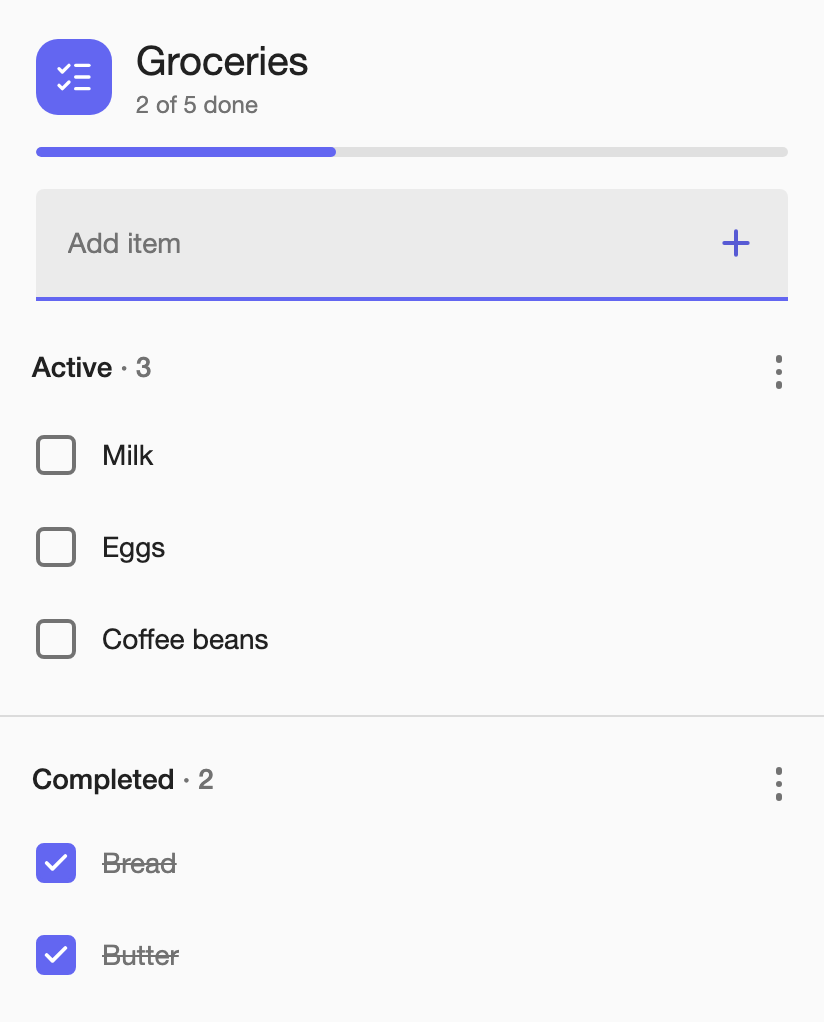
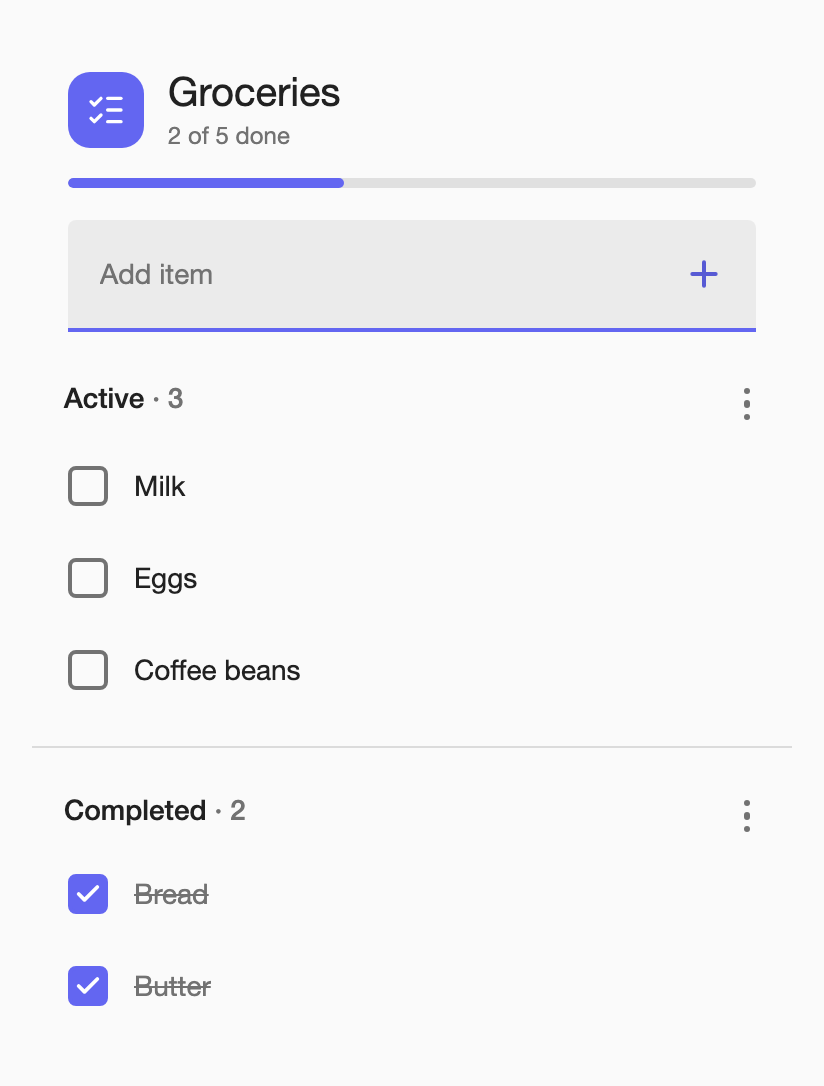
docs: re-capture screenshots with the tracked script, correct the recipe doc
Copilot's review of this PR's prior commit caught two real problems:
the recipe I wrote up used a different, undocumented method (harness
width=412, clipping the card element alone) instead of the project's
existing, tracked frontend/scripts/capture-screenshots.mjs — and never
mentioned that script exists in docs/card.md.

Re-captured all 7 README images with `npm run dev &` +
`node scripts/capture-screenshots.mjs`, the workflow already
documented in CONTRIBUTING.md. This also restores the 16px column
padding as a visible margin around the card, which my ad hoc script's
tighter crop had dropped. Verified the icon tile still measures 76x76
via a DOM measurement matching the script's own clip geometry.

Rewrote docs/card.md's recipe subsection to point at the tracked
script instead of the ad hoc one, and to record both defects plainly:
the 2026-09-16 force-resize (122x115 tiles) and this session's
undocumented alternate method, so a human reviewing the rendered
result stays the only real check on either.

Claude-Session: https://claude.ai/code/session_01UpTSDsnRNjGzj84EAQCgsy

diff --git a/docs/card.md b/docs/card.md
@@ -738,24 +738,27 @@ mock `hass`. Slice 4 reuses the card side of the harness for README screenshots.
 
 ### README screenshot recipe
 
-Capture at the harness's `width=412` slider value with `deviceScaleFactor=2` — a Playwright
-screenshot of the `listapp-list-card` element's bounding box, clipped to exactly that box. This
-combination happens to land at **824px wide**; 824 is a consequence of `width=412 × 2`, not a
-target to hit by other means. **Never resize, scale, or crop a capture after the fact** — if the
-output width isn't what you expect, change the viewport width or DPR and recapture, don't touch the
-pixels. Playwright is not a repo dependency; it's run ad hoc (`npx playwright install chromium`,
-then a throwaway script), so don't go looking for it in `package.json`.
+Use the tracked script — `cd frontend && npm run dev &` then `node scripts/capture-screenshots.mjs`
+(see [CONTRIBUTING.md](../CONTRIBUTING.md)). It drives the dev harness over CDP at the harness's
+`width=380` slider value, then clips each rendered `.theme` column (card plus its 16px padding) at
+`deviceScaleFactor: 2`. The 824px width in every committed image is a *consequence* of that —
+`main`'s CSS grid gives each theme column exactly its content's minimum width (380 + 16px × 2 =
+412), doubled by the DPR — not a target hit by any other means. **Never resize, scale, or crop a
+capture after the fact.** If a future design change moves the natural width off 824, that's fine;
+report the new width rather than forcing the old one.
 
 Before committing, verify the icon tile — CSS `38×38` — measures exactly `76×76` in the output.
 `card-unavailable-reauth-dark` has no tile (it's the reauth banner state), so that check doesn't
-apply to it. Heights aren't fixed to the old set: they range 662–1022px against the old 704–1012px
-because rows are genuinely taller under #30/#31's typography, and the README embeds at
-`width="380"` with no `height`, so aspect ratio follows the image with no markup change needed.
+apply to it.
 
-This check exists because of a 2026-09-16 defect on #29: images were force-resized to match the old
-824px width, stretching every tile to 122×115. CI was fully green and Copilot reported "wasn't able
-to review any files" — nothing in the pipeline can inspect a PNG's content, so **a human reviewing
-the rendered result is the only check that catches this.**
+This check exists because of a 2026-09-16 defect on #29: an ad hoc Playwright script (not the
+tracked one above) force-resized captures to match the old 824px width, stretching every tile to
+122×115 — and, in a second pass, used a different clip (the card element alone, without the
+column's padding) that landed on the right width by a different, undocumented route while missing
+the tracked script entirely. Both passes went out with CI fully green and Copilot reporting "wasn't
+able to review any files" — nothing in the pipeline can inspect a PNG's content, so **a human
+reviewing the rendered result is the only check that catches either kind of defect.** Use the
+tracked script; don't reinvent the capture.
 
 ## Licences
 
